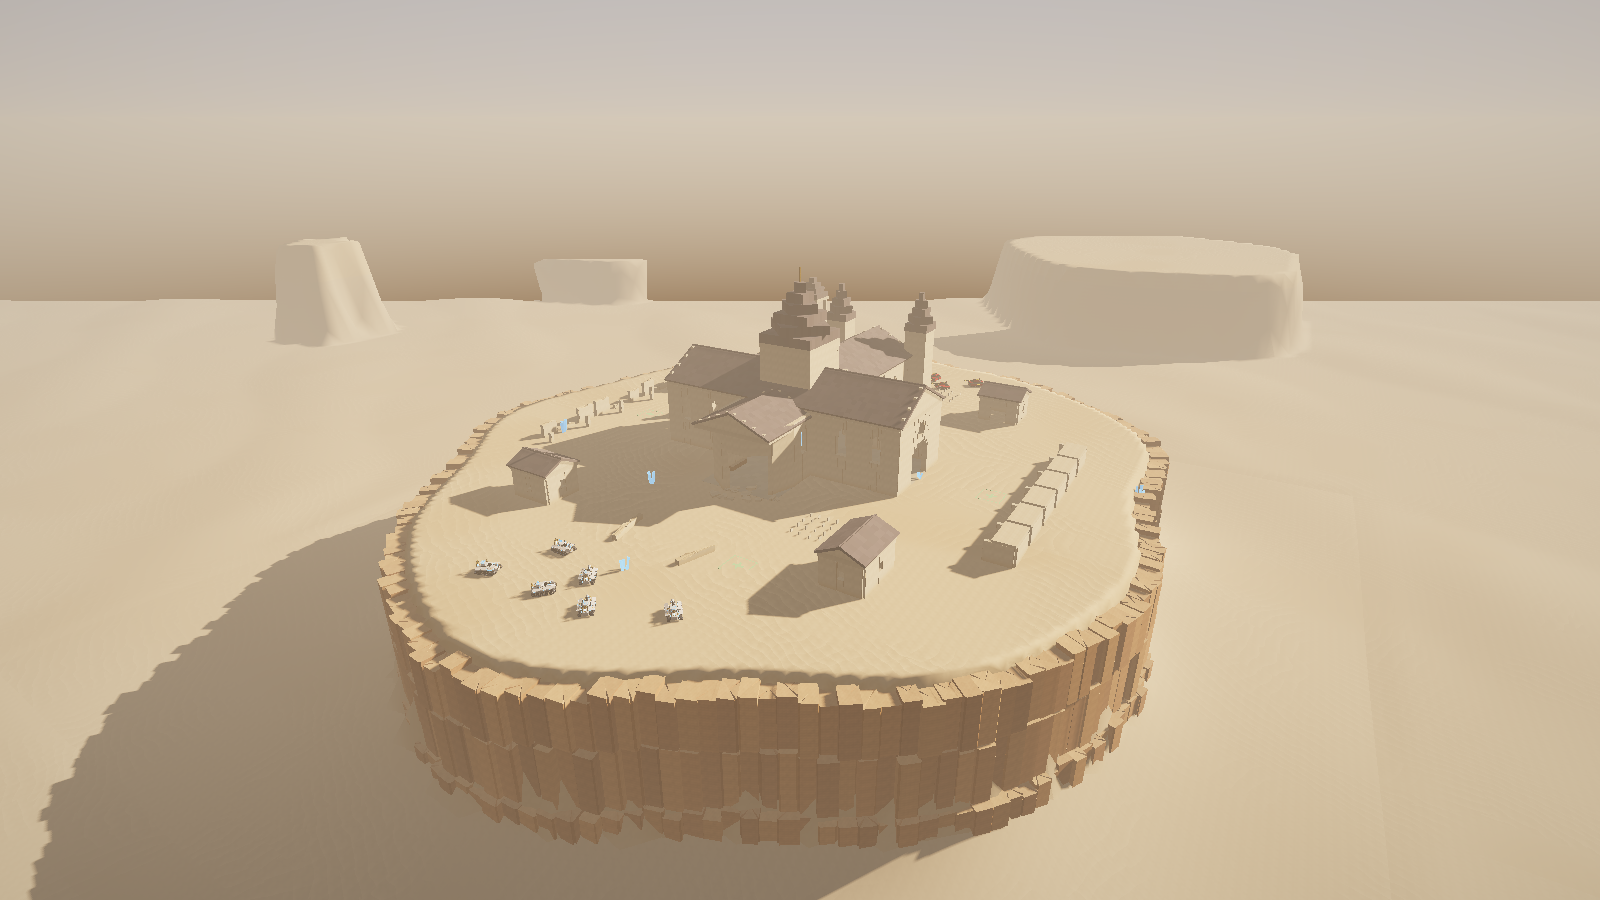
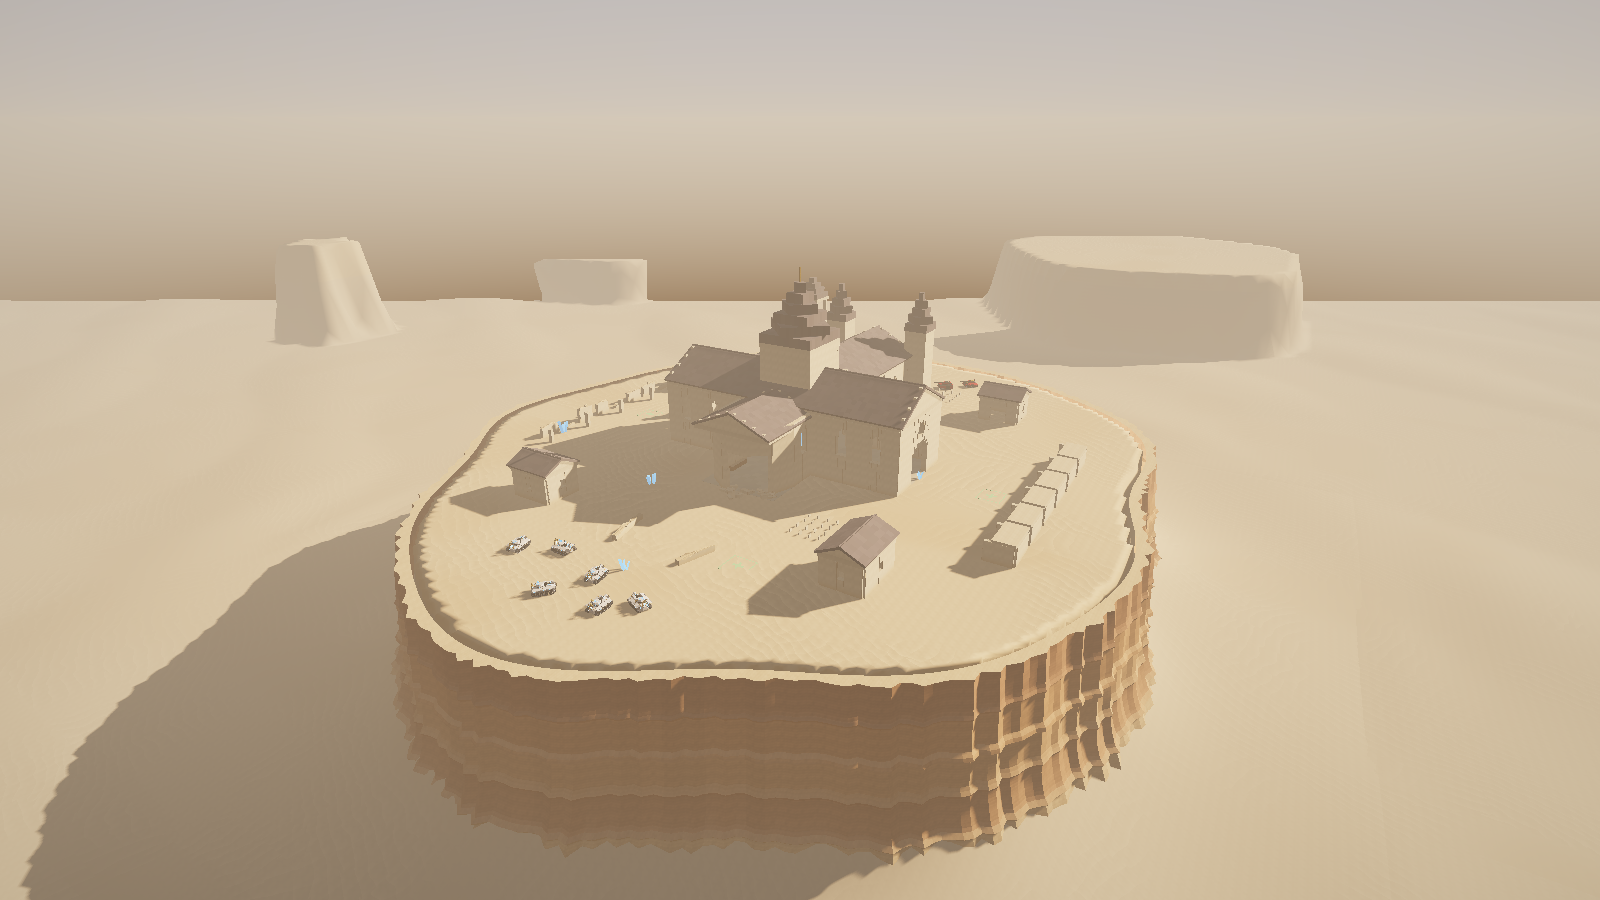
Sanctum: a sculpted rock face instead of a stockade of boxes
The cliff is one continuous surface round the mesa: a lip at the top,
uneven fluted columns down it, bands of rock each set in or out with a
ledge at its foot and its own shade, and a foot that flares into the
scree. Same procedural stone as the church, so the detail matches. The
heightfield's drop now sits inside the face, and the desert floor meets
the scenery beyond the arena without a step.

Maps can carry hand-shaped static meshes (`Map::sculpted`), drawn with
the rest of the map; they never collide.

Claude-Session: https://claude.ai/code/session_01MEmTqCZq85o86svZvgDnH5

diff --git a/src/map/sanctum.rs b/src/map/sanctum.rs
@@ -35,11 +35,6 @@ pub const FALL_Y: f32 = -10.0;
 const SAND: Vec3 = Vec3::new(0.78, 0.66, 0.5);
 const STONE: Vec3 = Vec3::new(0.82, 0.76, 0.64);
 const SLATE: Vec3 = Vec3::new(0.3, 0.28, 0.3);
-const ROCK: [Vec3; 3] = [
-    Vec3::new(0.56, 0.37, 0.26),
-    Vec3::new(0.63, 0.43, 0.3),
-    Vec3::new(0.5, 0.33, 0.24),
-];
 const GILT: Vec3 = Vec3::new(0.62, 0.47, 0.22);
 /// Resonant crystal, drawn glowing.
 const CRYSTAL: Vec3 = Vec3::new(0.25, 0.55, 1.0);
@@ -75,17 +70,26 @@ fn past_edge(p: Vec2) -> f32 {
     d.length() - rim(d.y.atan2(d.x))
 }
 
+/// One point down a column of the cliff face: its height, how far out from
+/// the rim it stands, and which band of rock it's in (0: the cap).
+type FacePoint = (f32, f32, u32);
+
+/// The mesa's top: flat round the church, a gentle roll further out.
+fn mesa_top(x: f32, z: f32) -> f32 {
+    let r = Vec2::new(x, z).distance(CENTER);
+    0.3 * (x * 0.07).sin() * (z * 0.05).cos() * smoothstep(60.0, 80.0, r)
+}
+
 fn ground(x: f32, z: f32) -> f32 {
     let p = Vec2::new(x, z);
-    let r = p.distance(CENTER);
     let d = past_edge(p);
-    // The top: flat round the church, a gentle roll further out.
-    let top = 0.3 * (x * 0.07).sin() * (z * 0.05).cos() * smoothstep(60.0, 80.0, r);
+    let top = mesa_top(x, z);
     // The floor: scree banked against the cliff's foot, dunes beyond.
     let scree = 10.0 * (-(d - 4.0).max(0.0) / 12.0).exp();
     let dunes = 1.5 * (x * 0.04).sin() * (z * 0.05 + 1.0).cos();
     let floor = LOW + scree + dunes;
-    let t = smoothstep(0.0, 5.0, d);
+    // The drop itself is steep, inside the sculpted face (see `cliffs`).
+    let t = smoothstep(-1.5, 0.3, d);
     top * (1.0 - t) + floor * t
 }
 
@@ -95,8 +99,9 @@ fn scenery_ground(x: f32, z: f32) -> f32 {
     let p = Vec2::new(x, z);
     let edge = p.clamp(Vec2::ZERO, Vec2::splat(SIZE));
     if edge == p {
-        // Under the arena's own ground.
-        return ground(x, z) - 0.6;
+        // Under the arena's own ground, meeting it at the edge.
+        let inside = x.min(z).min(SIZE - x).min(SIZE - z);
+        return ground(x, z) - 0.6 * smoothstep(0.0, 14.0, inside);
     }
     // Carry on from the arena's edge, easing into the open desert.
     let dunes =
@@ -162,6 +167,7 @@ impl Map {
             glow_paths: Vec::new(),
             fall_y: Some(FALL_Y),
             hold_name: "ALTAR",
+            sculpted: crate::render::mesh::MeshData::default(),
         };
         let mut terrain = Terrain::from_fn(Vec2::ZERO, 2.0, 151, 151, ground);
         terrain.color = SAND;
@@ -169,7 +175,7 @@ impl Map {
         map.terrain = Some(terrain);
         let mut rng = Rng::new(0x5a4c_7c11);
 
-        map.cliffs(&mut rng);
+        map.cliffs();
         map.church(&mut rng);
         map.precinct(&mut rng);
         map.sanctum_horizon();
@@ -209,32 +215,109 @@ impl Map {
         map
     }
 
-    /// The cliff face: fluted columns of banded rock all round the edge,
-    /// standing in for the heightfield's smeared drop.
-    fn cliffs(&mut self, rng: &mut Rng) {
-        let n = 190;
-        for i in 0..n {
+    /// The cliff face: one sculpted surface of rock all round the edge,
+    /// over the heightfield's drop. A lip at the top; fluted columns running
+    /// down it; bands of harder rock stepping out as ledges, each its own
+    /// shade; its foot buried in the scree.
+    fn cliffs(&mut self) {
+        let m = &mut self.sculpted;
+        let n = 360;
+        const BAND: f32 = 8.0;
+        const SHADES: [Vec3; 5] = [
+            Vec3::new(0.66, 0.46, 0.32),
+            Vec3::new(0.56, 0.36, 0.25),
+            Vec3::new(0.74, 0.58, 0.42),
+            Vec3::new(0.5, 0.32, 0.23),
+            Vec3::new(0.62, 0.41, 0.28),
+        ];
+        let hash = |i: u32, k: u32| {
+            let h = i.wrapping_mul(0x9E37_79B9) ^ k.wrapping_mul(0x85EB_CA6B);
+            let h = (h ^ (h >> 15)).wrapping_mul(0x2C1B_3C6D);
+            (h ^ (h >> 12)) as f32 / u32::MAX as f32
+        };
+        // How far out from the rim the face stands at angle `a`, `depth` m
+        // down from the top.
+        let face = |a: f32, depth: f32| {
+            let s = (depth / 40.0).clamp(0.0, 1.0);
+            // Columns of uneven width: the phase wanders round the rim.
+            let phase = a * 120.0 + 9.0 * (a * 3.0).sin() + 4.0 * (a * 7.0 + 1.0).sin();
+            let col = (phase / TAU).floor() as u32;
+            let groove =
+                (0.5 + 0.5 * (phase + 0.5 * (depth * 0.11 + a * 13.0).sin()).cos()).powf(0.6);
+            let flute = groove * (0.6 + 1.4 * hash(col, 7)) + 0.4 * (a * 37.0 + depth * 0.05).sin();
+            let f = (depth / BAND).fract();
+            let band = (depth / BAND).floor() as u32;
+            // Each band set in or out of the face; harder rock at its foot
+            // stepping out as a ledge.
+            let set = 0.9 * (hash(band, 11) - 0.5);
+            let ledge = (0.5 + 0.6 * hash(band, 3)) * smoothstep(0.8, 0.97, f);
+            // The foot flares out into the scree.
+            let flare = 4.0 * smoothstep(0.62, 1.0, s);
+            1.2 + 4.5 * s + flute.max(0.0) + set + ledge + flare
+        };
+        // Each column of the face: (height, distance out from the rim).
+        let mut depths = vec![0.0f32];
+        let mut d = 0.6;
+        while d < 41.0 {
+            depths.push(d);
+            d += 0.7;
+        }
+        let profile = |a: f32| -> Vec<FacePoint> {
+            let p = CENTER + Vec2::new(a.cos(), a.sin()) * rim(a);
+            let top = mesa_top(p.x, p.y);
+            // Tucked into the ground, then out to the lip, then down the face.
+            let mut v = vec![(top + 0.2, -0.8, 0), (top + 0.2, face(a, 0.0), 0)];
+            v.extend(
+                depths
+                    .iter()
+                    .skip(1)
+                    .map(|&dp| (top - dp, face(a, dp), 1 + (dp / BAND).floor() as u32)),
+            );
+            v
+        };
+        let rings: Vec<(Vec2, Vec<FacePoint>)> = (0..=n)
+            .map(|i| {
+                let a = i as f32 / n as f32 * TAU;
+                (Vec2::new(a.cos(), a.sin()), profile(a))
+            })
+            .collect();
+        let at = |i: usize, k: usize| {
+            let (dir, ref prof) = rings[i];
             let a = i as f32 / n as f32 * TAU;
-            let dir = Vec2::new(a.cos(), a.sin());
-            let r = rim(a);
-            let step = TAU * r / n as f32;
-            // Three bands, each its own shade, stepping in and out a little.
-            let bands = [(LOW - 2.0, -27.0), (-27.0, -13.0), (-13.0, -1.2)];
-            for (k, &(y0, y1)) in bands.iter().enumerate() {
-                let out = rng.range(1.6, 3.4) + if k == 0 { 1.5 } else { 0.0 };
-                self.oboxes.push(OBox {
-                    center: CENTER + dir * (r + out),
-                    yaw: FRAC_PI_2 - a,
-                    half: Vec2::new(step * rng.range(0.5, 0.62), 2.6),
-                    y0,
-                    y1: y1 + rng.range(-1.2, 0.6),
-                    color: ROCK[(i + k) % 3] * rng.range(0.9, 1.08),
-                    side_mat: Material::Rubble,
-                    top_mat: Material::Rubble,
-                    chip: 0.4,
-                    solid: false,
-                    ..OBox::default()
-                });
+            let (y, d, _) = prof[k];
+            let p = CENTER + dir * (rim(a) + d);
+            Vec3::new(p.x, y, p.y)
+        };
+        for i in 0..n {
+            let out = (rings[i].0 + rings[i + 1].0).normalize().extend(0.0);
+            let out = Vec3::new(out.x, 0.0, out.y);
+            for k in 0..rings[i].1.len() - 1 {
+                let q = [at(i, k), at(i + 1, k), at(i + 1, k + 1), at(i, k + 1)];
+                let mut nrm = (q[1] - q[0]).cross(q[3] - q[0]).normalize_or_zero();
+                if k == 0 {
+                    // The cap over the lip faces up.
+                    if nrm.y < 0.0 {
+                        nrm = -nrm;
+                    }
+                } else if nrm.dot(out) < 0.0 {
+                    nrm = -nrm;
+                }
+                let band = rings[i].1[k + 1].2;
+                let base = if band == 0 {
+                    SAND * 0.95
+                } else {
+                    SHADES[(band as usize + 2) % SHADES.len()]
+                };
+                // Streaked down the face, darker toward its foot.
+                let depth = (rings[i].1[0].0 - rings[i].1[k + 1].0).max(0.0);
+                let c = base * (0.93 + 0.08 * hash(i as u32 / 2, 5)) * (1.0 - 0.004 * depth);
+                // Wind the quad to face along its normal.
+                let q = if (q[1] - q[0]).cross(q[3] - q[0]).dot(nrm) < 0.0 {
+                    [q[0], q[3], q[2], q[1]]
+                } else {
+                    q
+                };
+                m.quad(q, nrm, c.extend(Material::Rubble.id()));
             }
         }
     }

diff --git a/src/map.rs b/src/map.rs
@@ -484,6 +484,9 @@ pub struct Map {
     pub fall_y: Option<f32>,
     /// What the Hold site is called on the HUD.
     pub hold_name: &'static str,
+    /// Hand-shaped surfaces (a mesa's cliff faces), already in world space:
+    /// drawn as they are, never collide.
+    pub sculpted: crate::render::mesh::MeshData,
 }
 
 /// A glowing ribbon on the ground: a bright core fading out to its edges.
@@ -749,6 +752,7 @@ impl Map {
             glow_paths: Vec::new(),
             fall_y: None,
             hold_name: "DEPOSIT",
+            sculpted: crate::render::mesh::MeshData::default(),
         }
     }
 

diff --git a/src/scene.rs b/src/scene.rs
@@ -81,6 +81,10 @@ pub fn map_mesh(map: &Map) -> MeshData {
     for c in &map.crystals {
         c.mesh(&mut m);
     }
+    let base = m.verts.len() as u32;
+    m.verts.extend_from_slice(&map.sculpted.verts);
+    m.indices
+        .extend(map.sculpted.indices.iter().map(|i| i + base));
     for g in &map.glow_paths {
         g.mesh(&mut m);
     }

diff --git a/src/map/kiln.rs b/src/map/kiln.rs
@@ -201,6 +201,7 @@ impl Map {
             glow_paths: Vec::new(),
             fall_y: None,
             hold_name: "DEPOSIT",
+            sculpted: crate::render::mesh::MeshData::default(),
         };
         let mut terrain = Terrain::from_fn(Vec2::ZERO, 2.0, 91, 91, ground);
         terrain.color = SLATE;

diff --git a/src/map/saltmarket.rs b/src/map/saltmarket.rs
@@ -506,6 +506,7 @@ impl Map {
             glow_paths: Vec::new(),
             fall_y: None,
             hold_name: "DEPOSIT",
+            sculpted: crate::render::mesh::MeshData::default(),
         };
         let mut rng = Rng::new(0x5a17_3a2c);
         let reserved = map.street_landmarks();
